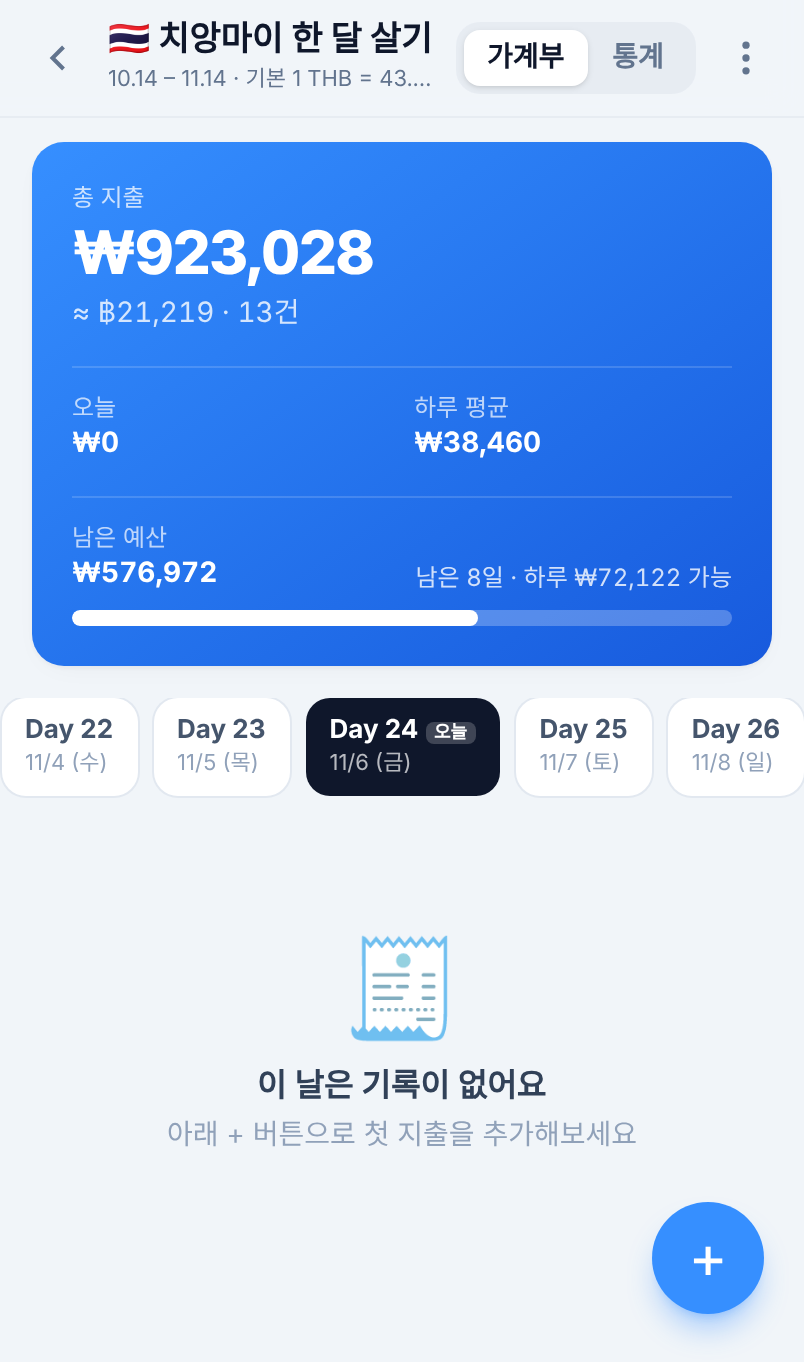
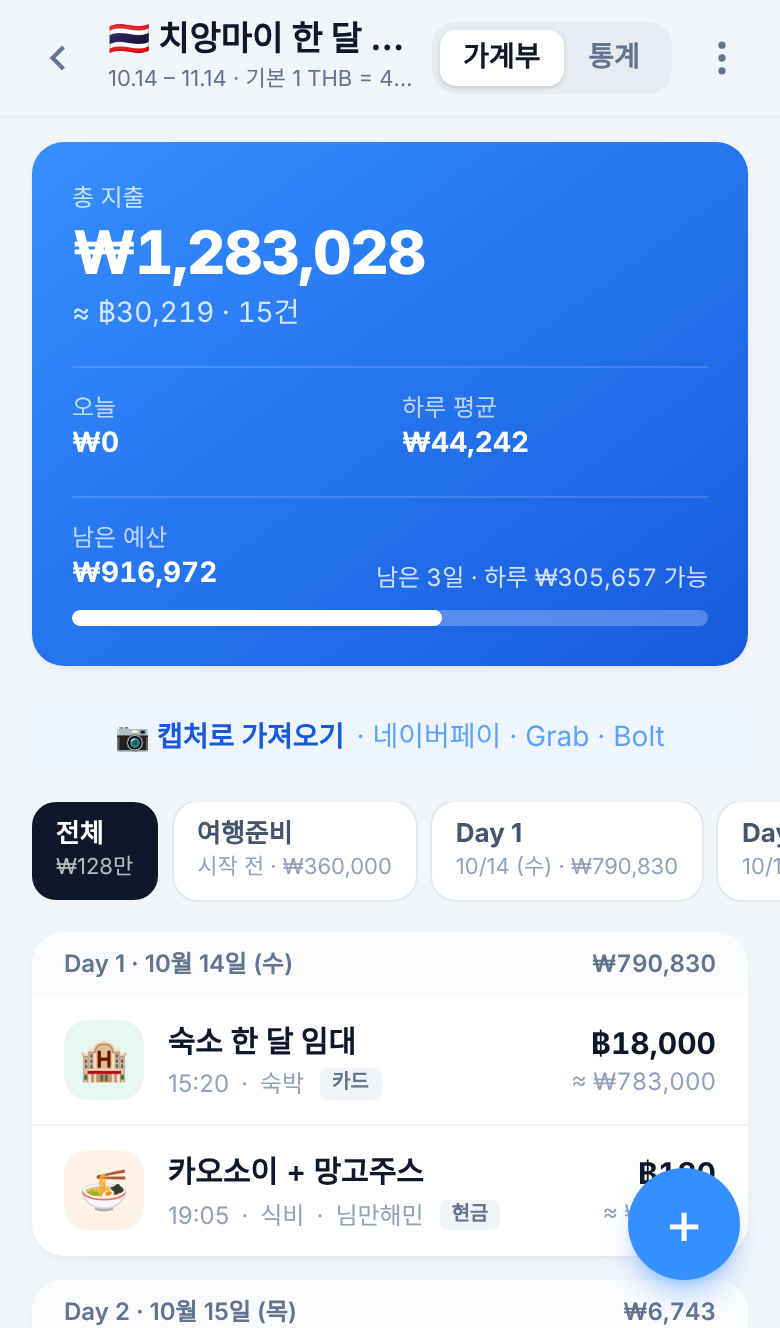
README 간소화: 기본 정보 위주로 재구성, 스크린샷 갱신
Claude-Session: https://claude.ai/code/session_019YDRQRA8ptzkFRG1geUHS3

diff --git a/README.md b/README.md
@@ -1,202 +1,78 @@
-# 여행 가계부 — travel-ledger
+# 여행 가계부 (travel-ledger)
 
-여행 중 지출을 **현지 통화 또는 원화로** 기록하고, **저장 시점의 실시간 환율**로 환산해 한눈에 보여주는 반응형 웹앱입니다.
-한 달 살기 중에 직접 쓰려고 만든 개인 프로젝트로, 폰 브라우저에서 바로 열어 쓰는 것을 전제로 설계했습니다.
+여행 중 지출을 현지 통화나 원화로 기록하고, 저장 시점의 환율로 환산해 보여주는 반응형 웹앱입니다. 폰 브라우저에서 바로 열어 쓰도록 만들었습니다.
 
-**🔗 https://travel-ledger-app.vercel.app** — 구글 계정으로 로그인해서 바로 사용할 수 있습니다.
+**데모: https://travel-ledger-app.vercel.app** (구글 계정으로 로그인)
 
-**스택** React 19 · TypeScript · Vite · Tailwind CSS 4 · Zustand · Recharts / Hono · libSQL(Turso) / Vercel Serverless
-
-| 여행 목록 | 가계부 | 지출 추가 | 통계 |
+| 가계부 | 지출 추가 | 캡처로 가져오기 | 통계 |
 |---|---|---|---|
-| ![](docs/screenshots/m-trips.png) | ![](docs/screenshots/m-ledger.png) | ![](docs/screenshots/m-add.png) | ![](docs/screenshots/m-stats.png) |
+| ![](docs/screenshots/m-ledger.png) | ![](docs/screenshots/m-add.png) | ![](docs/screenshots/m-import.png) | ![](docs/screenshots/m-stats.png) |
 
-<details>
-<summary>데스크톱 레이아웃</summary>
+## 주요 기능
 
-![](docs/screenshots/d-ledger.png)
-</details>
+- **여행별 가계부**: 기간, 통화, 예산을 정하고 날짜 탭(`전체 · 여행준비 · Day 1 …`)으로 지출을 봅니다.
+- **지출 기록**: 현지 통화 또는 원화로 입력하고, 카테고리·결제수단·메모·장소를 남깁니다.
+- **환율**: 지출을 저장할 때의 실시간 환율을 지출마다 함께 저장하므로, 이후 환율이 바뀌어도 과거 기록은 그대로입니다.
+- **통계**: 카테고리별·결제수단별·일별 지출과 남은 예산을 보여줍니다.
+- **캡처로 가져오기**: 네이버페이·Grab·Bolt 결제내역 스크린샷을 올리면 Gemini가 거래를 읽어 분류하고, 확인한 것만 저장합니다. 운영자가 허용한 계정에서만 쓸 수 있습니다.
+- **엑셀 가져오기**: 다른 가계부에서 내보낸 `.xlsx`를 여행 단위로 가져옵니다.
+- **백업**: JSON·CSV 내려받기와 JSON 복원을 지원합니다.
+- **계정**: 구글 로그인을 쓰며, 데이터는 계정별로 분리됩니다.
 
-## 기능
+## 기술 스택
 
-- **여행 단위 가계부** — 국가/통화, 기간, 예산. 여행 중이면 `Day N / 전체일수`, 예정이면 `D-n` 표시
-- **지출 기록** — 금액은 현지 통화(฿) 또는 원화(₩) 중 선택해 입력. 카테고리 6종(식비·교통·숙박·관광·기타·쇼핑), 현금/카드, 일시, 메모, 장소
-- **환율** — 지출 추가 시 실시간 환율을 조회해 **그 지출에 함께 저장**하고 환산. 나중에 환율이 바뀌어도 과거 기록은 그대로. 직접 수정 가능하며, 조회 실패 시 여행에 설정한 기본 환율로 대체
-- **날짜 탭** — `전체 | 여행준비 | Day 1 | Day 2 …` 가로 탭, 오늘 탭 자동 포커스. 시작일 이전 지출(항공권·보험 등)은 날짜와 무관하게 **여행준비** 한 묶음으로, 기간 이후는 `기간 외`. 내역은 저장 순서대로, 각 줄에 저장 통화 + 반대 통화 환산값
-- **요약 카드** — 총 지출, 오늘 지출, 하루 평균, 남은 예산과 "남은 n일 · 하루 ₩x 가능"
-- **통계** — 카테고리 도넛 + 비율 리스트, 결제수단 비율(환전 계획용), 일별 막대와 일 예산선. 원화/현지통화 토글
-- **📷 캡처로 가져오기** — 네이버페이 결제내역, Grab(음식·차량), Bolt 활동 화면 스크린샷을 한 번에 최대 3장 올리면 Gemini Vision이 거래를 추출·분류(이미지별 병렬, 진행률 표시). 리뷰 화면에서 체크/수정 후 선택한 것만 일괄 저장. 네이버페이처럼 실제 청구 원화가 보이면 그 값을 환산액으로 사용. 운영자가 허용한 계정만 사용 가능하며, 다른 사용자는 "사용 요청" → 운영자 메일 알림
-- **📄 엑셀 가져오기** — 다른 가계부에서 내보낸 `.xlsx`(여행 목록 시트 + 여행별 시트)를 올리면 여행별로 미리보기. 같은 기간의 기존 여행이 있으면 기본 체크 해제 상태로 "합치기" 또는 "새 여행으로" 선택 가능. 중복 검사는 하지 않으므로 같은 파일을 두 번 올리면 두 번 들어감(의도적으로 단순하게 유지). "여행준비" 행은 시작일 전날 날짜로 저장되어 여행준비 탭에 모임. 파싱은 브라우저에서(SheetJS, 별도 청크), 저장은 50건씩 일괄
-- **백업** — JSON 내려받기/복원(병합 또는 교체), CSV 내려받기(엑셀·시트용), 여행 기본 환율로 일괄 재계산
-- **계정** — 구글 로그인, 구글 계정이면 누구나 가입. 여행/지출은 소유자별로 완전히 분리되고 모든 쿼리에 소유자 조건이 붙음. `ALLOWED_EMAILS`를 설정하면 특정 계정만 허용(개인용). 세션 토큰은 HMAC 서명이라 서버 세션 저장소 없음. 로컬 개발은 PIN 모드
-- **모바일 대응** — iPhone Safari 기준으로 검증: 입력 시 자동 확대 방지, 노치/홈 인디케이터 safe-area, 키보드가 올라와도 바텀시트가 밀리지 않도록 visualViewport 기준 배치. 홈 화면에 추가하면 앱처럼 실행
+| 영역 | 사용 기술 |
+|---|---|
+| 프론트엔드 | React 19, TypeScript, Vite, Tailwind CSS 4, Zustand, Recharts |
+| 백엔드 | Hono (Vercel 서버리스 함수 / Node 서버 공용) |
+| 데이터베이스 | libSQL (운영은 Turso, 로컬은 SQLite 파일) |
+| 외부 서비스 | Google Identity Services, Gemini API, open.er-api.com(환율) |
 
-## 아키텍처
+## 시작하기
 
-```mermaid
-flowchart LR
-  subgraph Client["브라우저 (React SPA)"]
-    UI[pages / components] --> Store[Zustand store] --> API[lib/api.ts]
-  end
-  subgraph Vercel
-    Static["정적 파일 (dist/)"]
-    Fn["api/index.js<br/>Hono (hono/vercel)"]
-  end
-  Turso[("Turso<br/>libSQL · Singapore")]
-  Rate["open.er-api.com<br/>환율"]
-  API -- "/api/*" --> Fn
-  Client -- "/" --> Static
-  Fn --> Turso
-  Fn -- "/api/rate" --> Rate
-```
-
-- **프론트**는 정적 파일, **API**는 서버리스 함수 하나(`api/index.js`). 같은 Hono 앱(`server/app.js`)을 Node 서버(`server/index.js`)에서도 그대로 띄울 수 있어 로컬·Docker·VPS 배포도 동일 코드
-- **DB**는 libSQL. `TURSO_DATABASE_URL`이 있으면 Turso 원격(fetch 기반 `@libsql/client/web` → 네이티브 바이너리 없이 서버리스 호환), 없으면 로컬 SQLite 파일
-- 함수와 DB를 모두 싱가포르 리전에 두고, 지출 저장은 `INSERT … SELECT`로 여행 존재 확인과 삽입을 1회 왕복으로 처리
-
-### 데이터 모델
-
-```
-users     id(google:<sub>), email, name, picture
-trips     id, owner_id → users, title, country_code, city, start_date, end_date,
-          local_currency, base_currency(KRW), exchange_rate(기본 환율), budget?
-expenses  id, trip_id, amount_local, amount_base, currency(입력 통화),
-          category, payment_method, exchange_rate(저장 시점 환율), memo, place, spent_at,
-          source(manual·naverpay·grab_food·grab_ride·bolt·xlsx), import_key?
-```
-
-`amount_base`(원화)는 저장 시점에 계산된 스냅샷이고 `exchange_rate`가 그 근거입니다. 합계·통계는 이 값을 그대로 더하므로 환율 변동과 무관하게 과거 기록이 흔들리지 않습니다. "여행준비"는 별도 컬럼 없이 `spent_at < trips.start_date`로 화면에서만 묶으므로 여행 시작일을 바꾸면 자동으로 재분류됩니다. 스키마 변경은 `server/db.js`의 `migrate()`에서 `ALTER TABLE`을 try/catch로 누적하는 방식(멱등)입니다.
-
-## 로컬 실행
-
-Node.js 20 이상.
+Node.js 20 이상이 필요합니다.
 
 ```bash
 npm install
-npm run dev:server     # API — http://localhost:3000 (PIN 1234, 로컬 SQLite ./data/ledger.sqlite)
-npm run dev            # 프론트 — http://localhost:5173 (/api 는 3000으로 프록시)
+npm run dev:server     # API: http://localhost:3000 (PIN 1234, 로컬 SQLite)
+npm run dev            # 프론트: http://localhost:5173
 ```
 
-프로덕션처럼 한 프로세스로:
-
-```bash
-npm run build && APP_PIN=1234 npm start   # http://localhost:3000
-```
-
-샘플 데이터:
-
-```bash
-npm run seed              # 치앙마이 여행 1개
-npm run seed -- --demo    # + 데모 지출 13건
-```
+샘플 데이터를 넣으려면 `npm run seed -- --demo`를 실행합니다.
 
 ## 환경변수
 
+로컬에서는 설정 없이 PIN 모드로 동작합니다. 전체 목록은 `.env.example`에 있습니다.
+
 | 변수 | 설명 |
 |---|---|
-| `GOOGLE_CLIENT_ID` | 구글 OAuth 클라이언트 ID. 설정하면 구글 로그인 모드 |
-| `ALLOWED_EMAILS` | 로그인 허용 이메일(쉼표 구분). 비우면 누구나 가입 |
-| `APP_PIN` | `GOOGLE_CLIENT_ID` 없을 때 PIN 모드 (로컬 개발용) |
-| `APP_SECRET` | 세션 토큰 서명 키 (긴 랜덤 문자열) |
-| `GEMINI_API_KEY` | 캡처 가져오기용 Google AI Studio 키. 없으면 기능 숨김 |
-| `GEMINI_MODEL` | 기본 `gemini-3.1-flash-lite-preview` |
-| `IMPORT_ALLOWED_EMAILS` | 캡처 가져오기 허용 계정(쉼표). 비우면 모두 |
-| `RESEND_API_KEY`, `OWNER_EMAIL` | 사용 요청 알림 메일 (Resend) |
-| `TURSO_DATABASE_URL` | `libsql://…turso.io` — 설정 시 Turso 사용 |
-| `TURSO_AUTH_TOKEN` | Turso 토큰 |
-| `DB_PATH` | Turso 미설정 시 로컬 SQLite 경로 (기본 `./data/ledger.sqlite`) |
-| `PORT` | Node 서버 포트 (기본 3000) |
-
-`.env.example` 참고.
+| `GOOGLE_CLIENT_ID` | 구글 OAuth 클라이언트 ID. 설정하면 구글 로그인을 사용 |
+| `APP_SECRET` | 세션 토큰 서명 키 |
+| `TURSO_DATABASE_URL`, `TURSO_AUTH_TOKEN` | Turso 연결 정보. 없으면 로컬 SQLite 사용 |
+| `ALLOWED_EMAILS` | 로그인을 허용할 이메일(쉼표 구분). 비우면 누구나 가입 |
+| `GEMINI_API_KEY` | 캡처로 가져오기용 키. 없으면 기능이 숨겨짐 |
+| `IMPORT_ALLOWED_EMAILS` | 캡처로 가져오기를 허용할 이메일(쉼표 구분) |
 
 ## 배포
 
-### Vercel + Turso (현재 운영, 무료)
+Vercel과 Turso의 무료 플랜으로 운영 중입니다.
 
-1. Vercel에서 이 레포 Import — `vercel.json`이 빌드/라우팅/리전(`sin1`)을 정의
-2. **Storage → Turso → Create / Connect** (환경변수 prefix `TURSO`) → `TURSO_DATABASE_URL`, `TURSO_AUTH_TOKEN` 자동 주입
-3. `GOOGLE_CLIENT_ID`, `ALLOWED_EMAILS`(선택), `APP_SECRET` 추가 → Deploy
+1. Vercel에서 이 레포를 Import합니다. 빌드와 라우팅은 `vercel.json`에 정의되어 있습니다.
+2. Vercel Storage에서 Turso 데이터베이스를 연결합니다(환경변수 prefix `TURSO`).
+3. `GOOGLE_CLIENT_ID`와 `APP_SECRET`을 추가하고 배포합니다.
 
-구글 OAuth 클라이언트는 [Google Cloud Console → APIs & Services → Credentials](https://console.cloud.google.com/apis/credentials)에서 **Web application** 타입으로 만들고, Authorized JavaScript origins에 배포 도메인과 `http://localhost:5173`을 등록합니다. 클라이언트 시크릿은 필요 없습니다(ID 토큰 흐름).
-
-`main` 푸시마다 자동 배포. Hobby 플랜은 커밋 작성자가 Vercel 계정과 같은 GitHub 계정이어야 배포됩니다.
-
-### 그 외
-
-- **Docker** — `docker build -t travel-ledger . && docker run -p 3000:3000 -e APP_PIN=… -v ledger-data:/data travel-ledger` (`/data`에 SQLite 저장)
-- **Render** — `render.yaml` 블루프린트 포함. 무료 인스턴스는 유휴 시 잠들고 디스크가 휘발성이라 Turso 연결 필수
-- **Node 직접** — `npm ci && npm run build && APP_PIN=… npm start`, HTTPS는 리버스 프록시에서
-
-## API
-
-모든 `/api/*`는 `Authorization: Bearer <token>` (PIN 미설정 시 생략 가능).
-
-```
-GET    /api/auth/status             { mode: google|pin|none, googleClientId? }
-POST   /api/auth/google             { credential } → { token, user }   구글 ID 토큰 검증
-POST   /api/auth/login              { pin } → { token, user }          PIN 모드
-GET    /api/auth/me
-
-GET    /api/trips                   목록 (+ totalBase, expenseCount)
-POST   /api/trips
-GET    /api/trips/:id
-PUT    /api/trips/:id
-DELETE /api/trips/:id               지출 포함 삭제
-POST   /api/trips/:id/recalc        여행 기본 환율로 지출 전체 재계산
-GET    /api/trips/:id/expenses
-
-POST   /api/expenses                { tripId, amountLocal, amountBase, currency, category,
-                                      paymentMethod, exchangeRate?, memo?, place?, spentAt }
-PUT    /api/expenses/:id
-DELETE /api/expenses/:id
-
-GET    /api/import/status           { enabled, allowed, requested }
-POST   /api/import/request          사용 요청 (운영자 메일)
-POST   /api/import/screenshots      { tripId, images:[{mime,data}], today } → { items[] }  (허용 계정만)
-POST   /api/expenses/batch          { items[] } → { saved[], errors[] }
-
-GET    /api/export                  전체 JSON
-POST   /api/import?replace=0|1      JSON 복원 (병합 / 교체)
-GET    /api/rate?from=THB&to=KRW    실시간 환율 (open.er-api.com 프록시)
-GET    /healthz
-```
+구글 OAuth 클라이언트는 Google Cloud Console에서 Web application 타입으로 만들고, Authorized JavaScript origins에 배포 도메인을 등록합니다.
 
 ## 프로젝트 구조
 
 ```
-api/index.js          Vercel 서버리스 진입점 (hono/vercel, 메서드별 export)
-server/app.js         Hono 앱 — 라우트, 검증 (Node/Vercel 공용)
-server/auth.js        구글 ID 토큰 검증, PIN, 세션 토큰 서명/검증
-server/vision.js      스크린샷 → 지출 추출 (Gemini), 중복 키
-server/notify.js      운영자 알림 메일 (Resend)
-server/index.js       Node 서버 — app + dist/ 정적 서빙
-server/db.js          libSQL 저장 레이어, 스키마/마이그레이션
-server/seed.js        샘플 데이터
-src/
-  pages/              TripsPage · LedgerPage · StatsPage · SettingsPage · LoginPage
-  components/         ui(Sheet·Button…) · ExpenseForm · ImportSheet · XlsxImportSheet · TripForm · TripHeader
-  store/useStore.ts   Zustand — 인증, 여행/지출 상태, 토스트
-  lib/                api(fetch 래퍼) · rate(실시간 환율+캐시) · router(hash) · format(금액·날짜) · xlsxImport(엑셀 파싱)
-  types.ts            도메인 타입, 카테고리/통화 메타
-docs/screenshots/
-vercel.json · render.yaml · Dockerfile
+api/index.js     Vercel 서버리스 진입점
+server/          Hono 앱(app.js), 인증(auth.js), DB(db.js), 캡처 분석(vision.js)
+src/pages/       여행 목록, 가계부, 통계, 설정, 로그인
+src/components/  지출 폼, 가져오기 시트, 공용 UI
+src/lib/         API 클라이언트, 환율, 엑셀 파싱, 포맷
 ```
-
-## 설계 메모
-
-- **왜 지출별 환율인가** — 한 달 체류 중 환율이 수 % 움직이는데 여행 단위 고정 환율은 실제 결제액과 어긋남. 저장 시점 환율을 지출에 박아두면 "그때 얼마였나"가 보존되고, 통계도 재계산 없이 합산만 하면 됨
-- **왜 서버리스 + Turso인가** — 브라우저 저장(IndexedDB)은 iOS가 임의로 지울 수 있어 탈락. 항상 켜진 서버는 비용이 들거나(Railway) 무료 티어가 잠듦(Render). Vercel 함수 + Turso 조합은 무료이면서 잠들지 않고, 둘 다 싱가포르에 둘 수 있음
-- **카테고리 색** — 6색을 색각 이상(CVD) 분리 검증을 통과한 고정 순서로 사용. 차트에서 색만으로 구분되지 않도록 범례·라벨 병기
 
 ## 라이선스
 
-MIT — 자유롭게 포크해서 쓰세요. 이슈/PR 환영합니다.
-
-## 로드맵
-
-- [ ] 동행인 초대 + 정산(N빵)
-- [x] 결제내역 캡처 자동 입력 (네이버페이 · Grab · Bolt)
-- [x] 엑셀(.xlsx) 가져오기
-- [ ] 여행준비 탭에서 바로 추가할 때 날짜 선택 간소화
-- [ ] 영수증 사진 첨부
-- [ ] 백엔드를 Spring Boot로 교체해보기
+[MIT](LICENSE)
